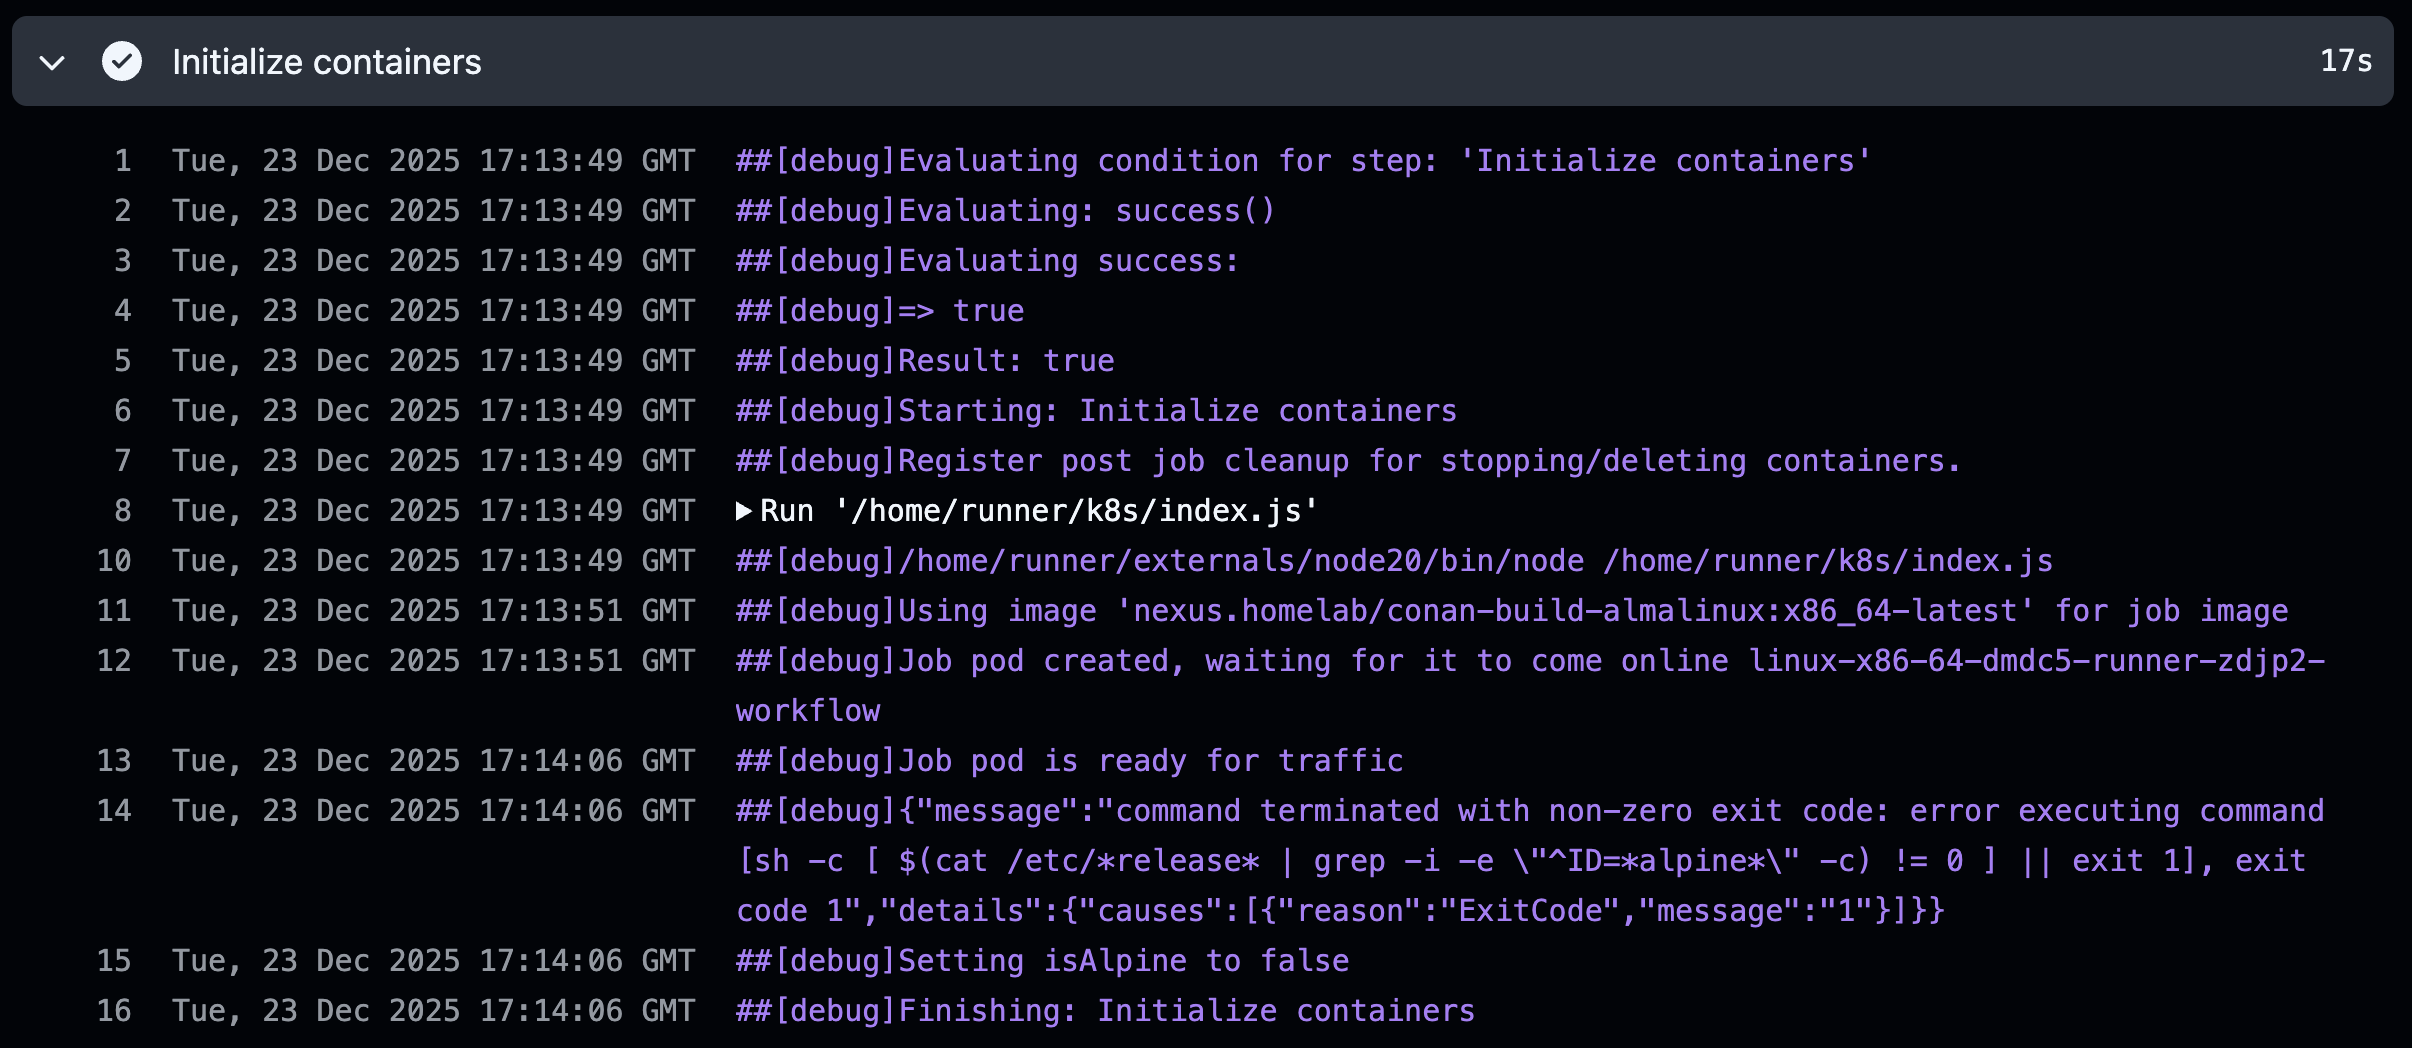
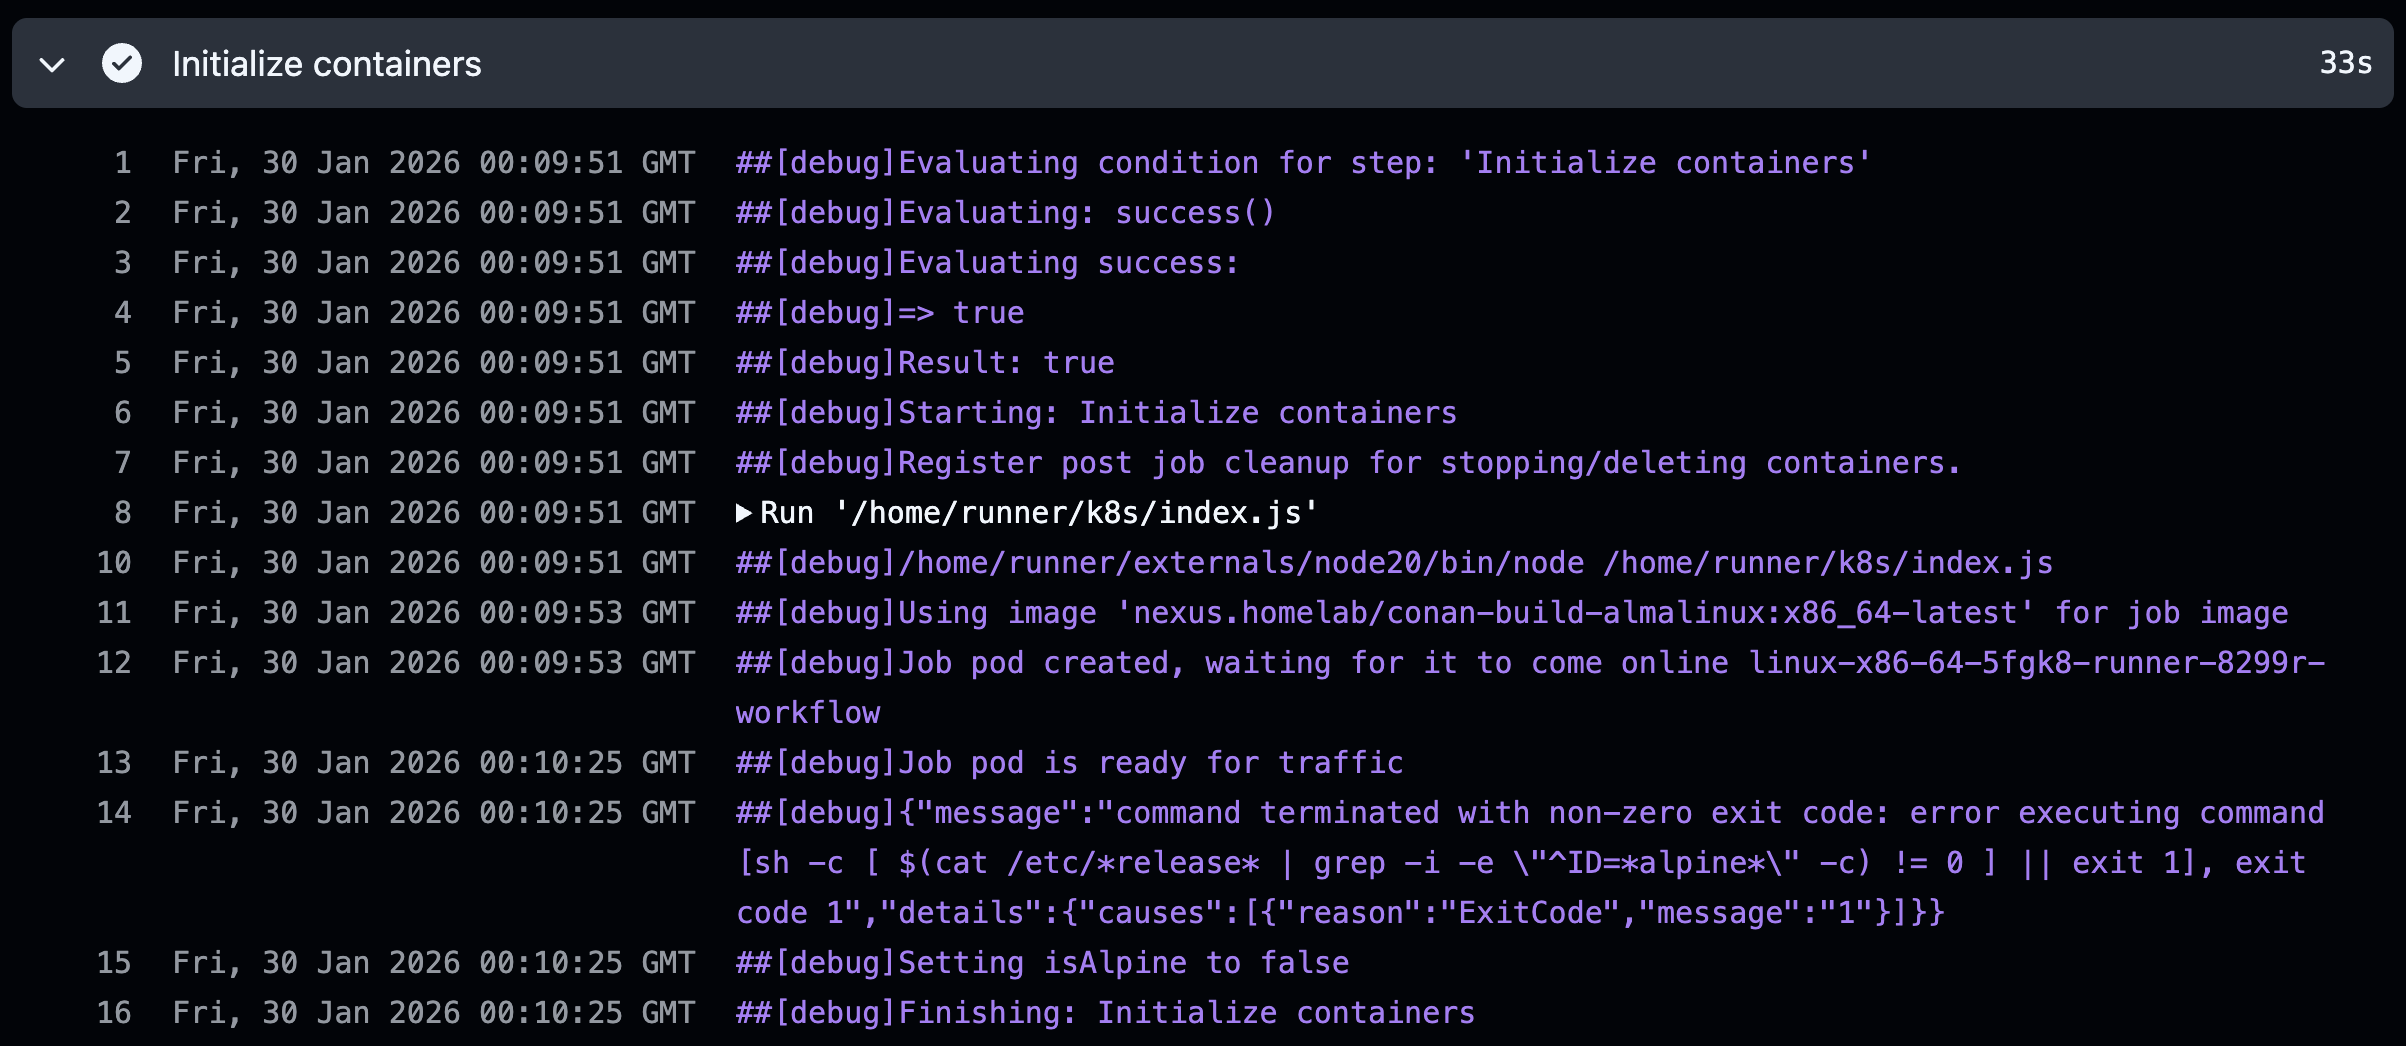
First round of edits for ConanK8sARCTroubleshooting

Changed region(s): [[0.0312, 0.1224, 0.9663, 0.979], [0.0623, 0.0306, 0.187, 0.0918], [0.9663, 0.0306, 0.9975, 0.0918]]

diff --git a/docs/ConanK8sARCTroubleshooting.md b/docs/ConanK8sARCTroubleshooting.md
@@ -28,11 +28,11 @@ compared to downloading our dependencies from artifact management.)*
 
 We did not experience anything odd or unexpected related to performance in
 our [devContainer](ConanK8sDevContainerDemo.md) demo, so this new development
-is concerning.  This issue is crtical to resolve for the success of this
+is concerning.  This issue is critical to resolve for the success of this
 project!
 
 Since I've already been documenting each step of setting up this solution,
-this was a prime opportuinity to document the process of troubleshooting
+this was a prime opportunity to document the process of troubleshooting
 a performance issue.  Hopefully gaining some more insight into how the
 infrastructure is working in the process as well as I try to explain it here.
 
@@ -78,8 +78,8 @@ We'll add two new variable definitions to the repo for GitHub Actions to use.
 
 ## Breaking it down
 
-While GitHub doesn't provide granular timing data in its log files, it can
-show us precise timestamps for each log entry in the web UI by pressing
+While GitHub does not provide granular timing data in its log files, it
+can show us precise timestamps for each log entry in the web UI by pressing
 `Shift + T` while on the job log screen.  Combined with enabling debug
 logging this gives us something to work with at least.
 
@@ -88,11 +88,11 @@ logging this gives us something to work with at least.
 Breaking this down, we can see where the majority of the time is going:
 
 ```text linenums="12"
-Tue, 23 Dec 2025 17:13:51 GMT ##[debug]Job pod created, waiting for it to come online linux-x86-64-dmdc5-runner-zdjp2-workflow
-Tue, 23 Dec 2025 17:14:06 GMT ##[debug]Job pod is ready for traffic
+Fri, 30 Jan 2026 00:09:53 GMT ##[debug]Job pod created, waiting for it to come online linux-x86-64-5fgk8-runner-8299r-workflow
+Fri, 30 Jan 2026 00:10:25 GMT ##[debug]Job pod is ready for traffic
 ```
 
-For this particular job, 15s of the total 17s of the "Initialize
+For this particular job, 32s of the total 33s of the "Initialize
 containers" step is spent waiting for the created Pod to start running.
 Looking at the source code we can locate the debug messages to see
 what's going on in between the log messages.
@@ -145,16 +145,16 @@ Let's take a look at the source to see what it does.
           }
 
           if (!backOffPhases.has(phase)) {
-             throw new Error(
+            throw new Error(
                `Pod ${podName} is unhealthy with phase status ${phase}`
              )
-           }
-           await backOffManager.backOff()
-         }
-       } catch (error) {
-         throw new Error(`Pod ${podName} is unhealthy with phase status ${phase}`)
-       }
-     }
+          }
+          await backOffManager.backOff()
+        }
+      } catch (error) {
+        throw new Error(`Pod ${podName} is unhealthy with phase status ${phase}`)
+      }
+    }
     ```
 
     ```typescript linenums="581" hl_lines="2 19 22"
@@ -197,7 +197,7 @@ backoff may be making the problem appear worse than it is.  For some reason
 Kubernetes is delaying our pod startup with ARC but not with our
 devContainer.
 
-We need to go look at the Kubernetes logs for our next clues.
+We'll need to go look at the Kubernetes logs for our next clues.
 
 ## Kubernetes Pod startup troubleshooting
 
@@ -210,7 +210,7 @@ The first step we'll take is to start one of each of our workflow and
 devContainer pods, watching the timing on our devContainer to verify
 that our startup delay doesn't occur.
 
-We'll use the following manifest to test our devContainer pod startup.
+We'll use the below manifest to test our devContainer pod startup.
 We've changed it a bit since our devContainer demo to use the same
 volume syntax as our GitHub ARC hook extension.
 
@@ -402,47 +402,48 @@ Checking the same logs for our GitHub ARC workflow pod we can clearly see
 a difference, but it's not quite clear why yet.
 
 ```bash linenums="0" title="GitHub ARC Workflow Pod Events"
-❯ kubectl describe pod linux-x86-64-st6ng-runner-pvzp6-workflow -n devcontainer
+❯ kubectl describe pod linux-x86-64-5fgk8-runner-v84xb-workflow -n devcontainer
 [...]
 Events:
   Type     Reason       Age   From     Message
   ----     ------       ----  ----     -------
-  Warning  FailedMount  106s  kubelet  Unable to attach or mount volumes: unmounted volumes=[conan-home], unattached volumes=[], failed to process volumes=[conan-home]: error processing PVC devcontainer/linux-x86-64-st6ng-runner-pvzp6-workflow-conan-home: PVC is not bound
+  Warning  FailedMount  107s  kubelet  Unable to attach or mount volumes: unmounted volumes=[conan-home], unattached volumes=[], failed to process volumes=[conan-home]: error processing PVC devcontainer/linux-x86-64-5fgk8-runner-v84xb-workflow-conan-home: PVC is not bound
   Normal   Pulled       91s   kubelet  Container image "nexus.homelab/conan-build-almalinux:x86_64-latest" already present on machine
   Normal   Created      91s   kubelet  Created container: job
   Normal   Started      91s   kubelet  Started container job
 ```
 
 ```bash linenums="0" title="GitHub ARC Workflow Pod Status Changes"
-❯ kubectl get pod linux-x86-64-st6ng-runner-pvzp6-workflow -n devcontainer -o yaml
+❯ kubectl get pod linux-x86-64-5fgk8-runner-v84xb-workflow -n devcontainer -o yaml
 [...]
 status:
   conditions:
   - lastProbeTime: null
-    lastTransitionTime: "2026-01-19T18:02:42Z"
+    lastTransitionTime: "2026-01-30T00:17:15Z"
     status: "True"
     type: PodScheduled
   - lastProbeTime: null
-    lastTransitionTime: "2026-01-19T18:02:42Z"
+    lastTransitionTime: "2026-01-30T00:17:15Z"
     status: "True"
     type: Initialized
   - lastProbeTime: null
-    lastTransitionTime: "2026-01-19T18:02:57Z"
+    lastTransitionTime: "2026-01-30T00:17:32Z"
     status: "True"
     type: PodReadyToStartContainers
   - lastProbeTime: null
-    lastTransitionTime: "2026-01-19T18:02:57Z"
+    lastTransitionTime: "2026-01-30T00:17:32Z"
     status: "True"
     type: ContainersReady
   - lastProbeTime: null
-    lastTransitionTime: "2026-01-19T18:02:57Z"
+    lastTransitionTime: "2026-01-30T00:17:32Z"
     status: "True"
     type: Ready
 ```
 
 A few observations here:
 
-- There is a noticeable jump from -91s to -106s after that `FailedMount` event.
+- There is a noticeable jump from -91s to -107s after that `FailedMount`
+    event.
 - The devContainer pod shows a series of `FailedScheduling` warnings from
     `default-scheduler`.  We see no events from `default-scheduler` for the
     GitHub ARC pod at all.
@@ -452,9 +453,30 @@ A few observations here:
 We have confirmed the issue is within the Kubernetes realm, and it appears
 to be happening after `Initialized` but before `PodReadyToStartContainers`.
 
+!!! example annotate "Duct tape and bailing wire"
+
+    Did you notice that the pod only took 16s to get to `Ready` status?
+    Why was GitHub Actions waiting 30s+?
+
+    It looks like we're not very lucky in the `waitForPodPhases()` cycle.
+    Since it uses a binary exponential backoff cycle from 1s, the series
+    of `backOff()` sleeps looks like:
+
+    1s + 2s + 4s + 8s + 16s = **31s**
+
+    If we're not able to resolve the root cause of our performance issue,
+    it looks like we can tune `backOff()` to punish us less.  It would not
+    be a comprehensive fix, and it would likely work with varying levels
+    of success in other environments.
+    
+    We could probably reclaim the majority of the last 16s sleep, cutting
+    the delay in half.  It would still be significantly slower than the
+    1-3s timing we're looking for howeveri, only slightly faster than
+    downloading from artifact management.
+
 ### Digging Deeper
 
-With the `FailedMount` warning there are a couple experiments to try.
+With the `FailedMount` warning there are a couple experiments for us to try.
 
 1. Modify GitHub ARC hook extension to remove the `conan-home` PVC only,
     isolate our OpenEBS ZFS volume from GitHub ARC.
@@ -502,7 +524,7 @@ Once the ConfigMap change is applied, the GitHub ARC Runners will pick up
 the change *automatically* once the cluster nodes have a chance to resync
 their state.  We can verify that our runners have picked up the change
 before running our test job by connecting to the runner container and
-checking the file we install our hook extension as.
+checking the file where we chose install our hook extension.
 
 ```bash linenums="0"
 runner@linux-x86-64-st6ng-runner-5dskd:~$ cat pod-template/content
@@ -545,9 +567,10 @@ the Pod mainfests further should expose the issue.
 
 ## Experiment 2: DevContainer and ARC Pod Manifest differences
 
-In order to understand why this difference is occuring, we need to look at the
-YAML specs for the pods.  In addition to our hook extension, the `k8s` hook
-adds other environment settings and volume mounts to the workflow pod.
+In order to understand why this difference is occurring, we need to look
+at the YAML specs for the pods.  In addition to our hook extension, the
+`k8s` hook adds other environment settings and volume mounts to the
+workflow pod.
 
 In order to examine the Pod mainfest applied by GitHub ARC, we'll add some
 additional debugging to the GitHub ARC Kubernetes Hook.  We'll start with
@@ -772,9 +795,9 @@ We don't have anything conclusive yet, but we do have a solid lead to chase.
 ## Best Guess
 
 My best guess at this point is that mixing use of `allowedTopologies` and
-`nodeName` in scheduling constraints is probably the source of the issue.
-Even when the node specified is the same one used by both OpenEBS and
-GitHub ARC.  Even when there's only one node in the cluster.
+`nodeName` in Kubernetes scheduling constraints is probably the source of
+the issue.  Even when the node specified is the same one used by both
+OpenEBS and GitHub ARC.  Even when there's only one node in the cluster.
 
 Some searching turns up OpenEBS - Issue 3667.
 
@@ -854,7 +877,7 @@ change ARC's scheduling behavior and not set `nodeName` seems like a great
 option to test.
 
 Using `appPod.spec.affinity` instead of `appPod.spec.nodeName` sounds more
-comaptible with our use of `allowedTopologies` in OpenEBS, but we'll have
+compatible with our use of `allowedTopologies` in OpenEBS, but we'll have
 to see what `getPodAffinity(nodeName)` returns.
 
 We can test it in parallel though if we can enable `useKubeScheduler()`.
@@ -871,7 +894,6 @@ Well, here it is...
 
     ```typescript linenums="16"
     export const ENV_USE_KUBE_SCHEDULER = 'ACTIONS_RUNNER_USE_KUBE_SCHEDULER'
-    }
     ```
 
 Like so many other features of GitHub ARC, it turns out triggering this
@@ -997,7 +1019,8 @@ version at this point.
 
 Let try "just one more" experiment to try the `k8s-novolume` hook and see
 how well it works with our `conan-home` OpenEBS PVC.  It may be feasible
-to switch directly to v0.8.0 if it handles our data volumes better.
+to switch directly to v0.8.0 if it handles our data volumes better than
+v0.7.0 does.
 
 ## Experiment 4: GitHub ARC `containerMode: k8s-novolume`
 
@@ -1048,7 +1071,7 @@ While we are well-equipped to continue tackling performance issues like
 this, we need to move on.  The default version we're using (v0.7.0) is
 working very well and is apparently stable given that it's no longer
 maintained.  v0.7.0 also seems like a closer fit to our use case since it
-requires the same sort of node affinity for data volumes.  We don't
+requires the same sort of node affinity for data volumes.  We won't
 escape without any tech debt at all.. :smile:
 
 ## What's Next
